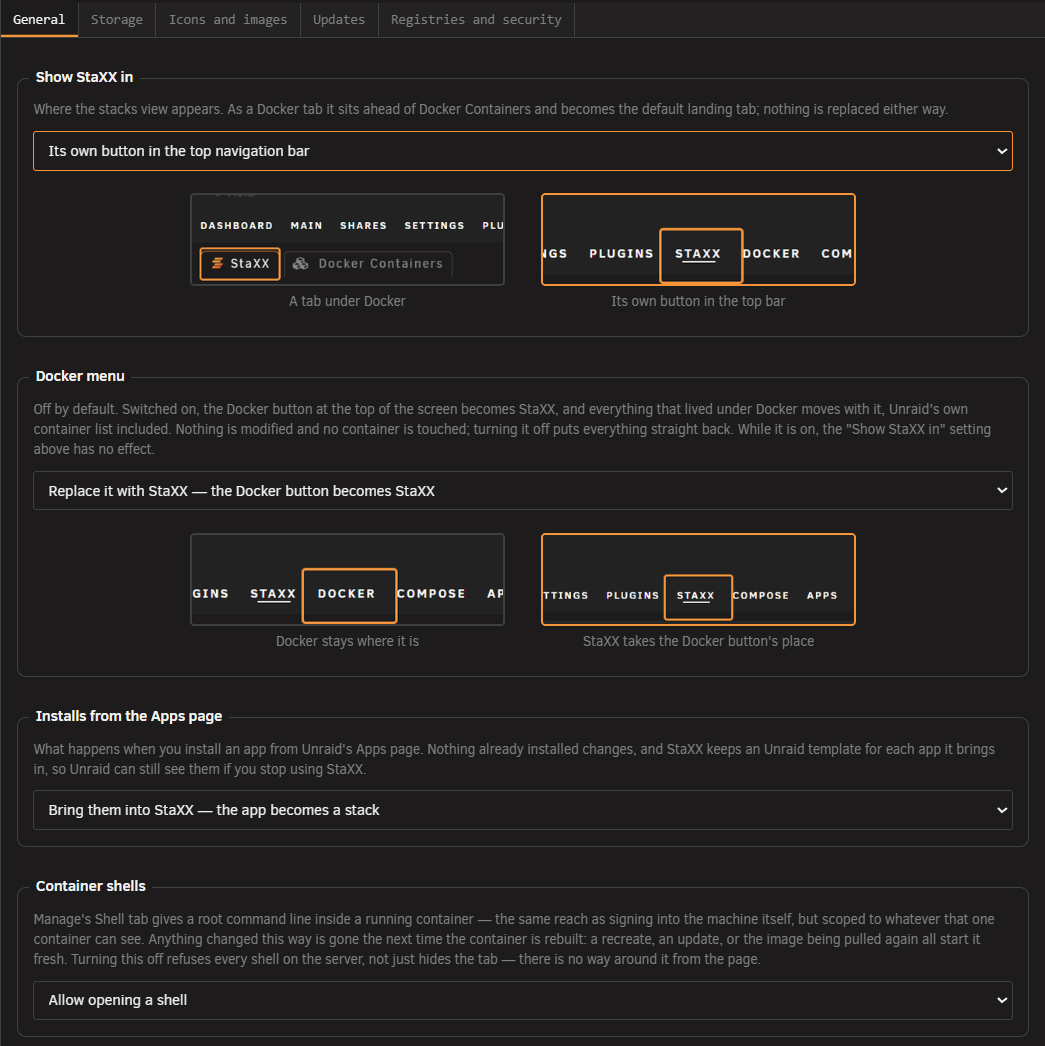
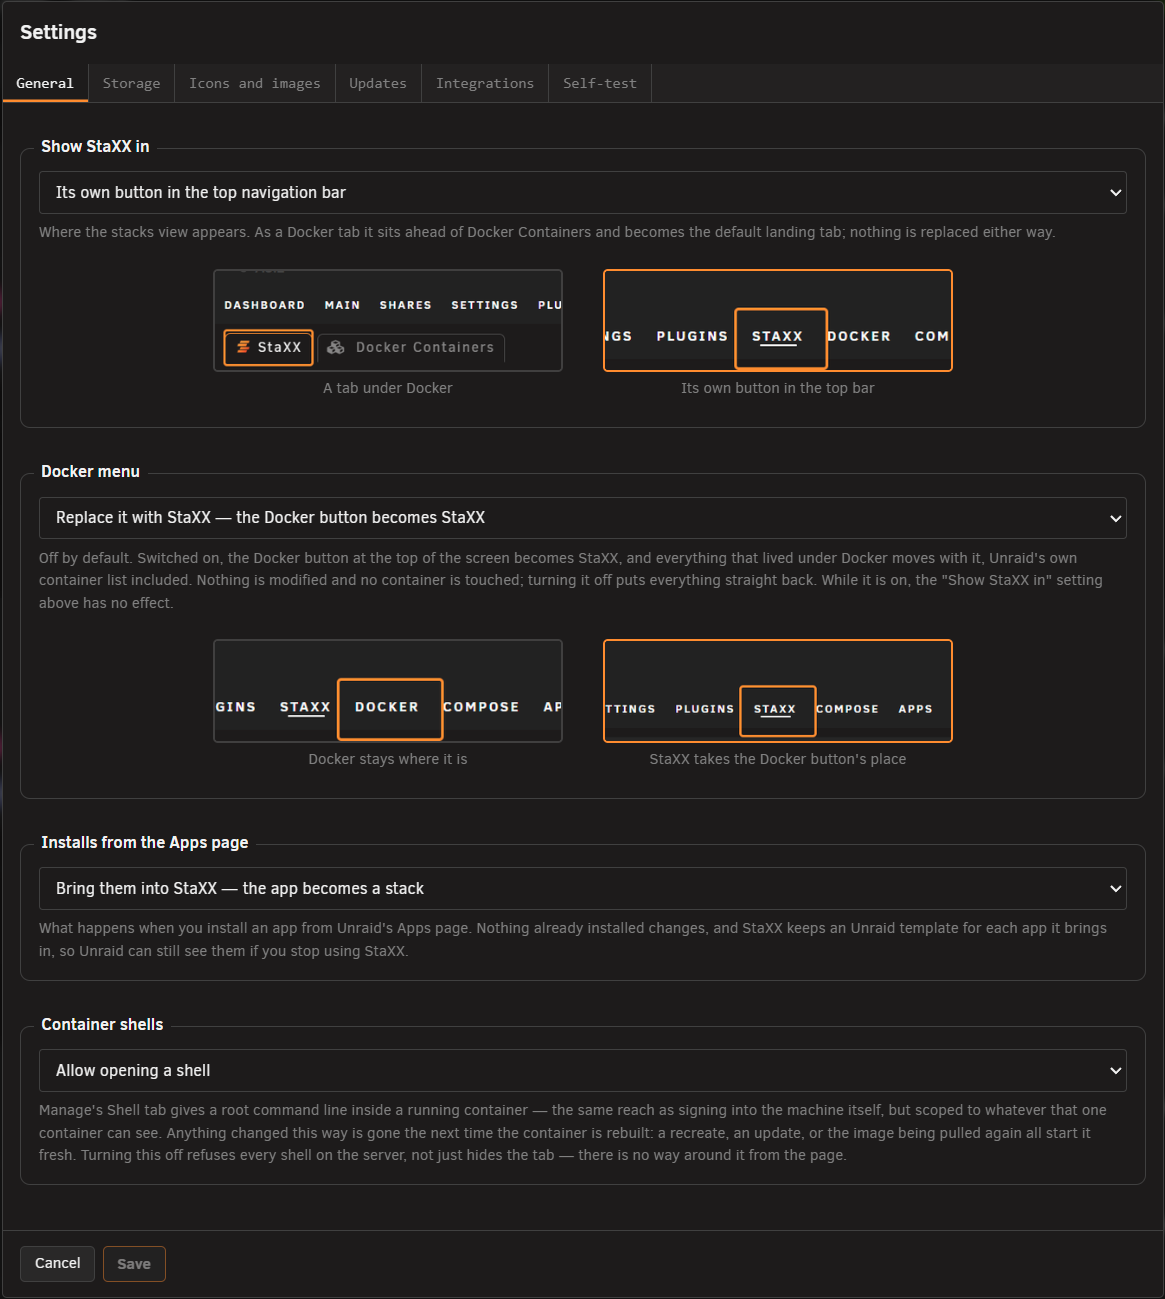
Guide: settings pictures re-shot, image scan and storage notice, Unraid page moved
The Settings page gains Scan stored images and The storage notice, with
pictures, and every settings-tab picture is re-shot for the new layout.
Removing a stack mentions saved earlier versions. The Unraid Settings ->
Utilities -> StaXX page's picture and table move to File locations and
the data store, under If you cannot reach StaXX. README settings table
updated.

Claude-Session: https://claude.ai/code/session_01XHPxR9EAziyYj4UczaFhek

diff --git a/docs/guide/settings.md b/docs/guide/settings.md
@@ -2,24 +2,10 @@
 
 <!-- index: 80 | every setting behind the cog, group by group, plus the self-test and the first-run screen. -->
 
-Press **Settings**, the cog above your stack list, to open this panel. Unraid's own Settings →
-Utilities → StaXX page keeps two of the settings as a way back.
+Press **Settings**, the cog above your stack list, to open this panel. If StaXX's own page will not
+open, see [If you cannot reach StaXX](where-things-live.md#if-you-cannot-reach-staxx).
 
-![The toolbar above the stack list with the Settings button outlined](../images/guide/settings-cog.png)
-
-## The page under Unraid's Settings
-
-![Unraid's own Settings → Utilities → StaXX page: a line saying the settings are in the app now with a link to open the panel, then two rows, Docker menu set to Replace it with StaXX and Data store holding the store path, with Apply and Done buttons](../images/guide/settings-unraid-page.png)
-
-Under Unraid's **Settings → Utilities** there is still a StaXX entry, and it is the way back if
-StaXX's own page will not open:
-
-| Setting | What it undoes |
-|---|---|
-| Docker menu | Set it to **Leave it alone** and Unraid's own Docker page returns, with StaXX as a tab under it. |
-| Data store | Point it at the right folder if the store has been moved or the path is wrong, and the stack list comes back. |
-
-Press **Apply** to save. Everything else lives in the panel.
+![The Settings button outlined in the middle of the toolbar above the stack list, with the search box and the other toolbar buttons either side, Unraid's own top bar above and the first folder row below](../images/guide/settings-cog.png)
 
 ## Using the panel
 
@@ -45,7 +31,7 @@ reloads for you and says so.
 
 ## Storage tab
 
-![The Storage tab in full: the Data store box holding the folder's path and its folder button, the Protect me from myself switch turned on with its one-line explanation, the three folders derived from the path and the Move the data store and Check these are in your backup links; then Copies on the flash drive with its dropdown, and beneath it the Keeping the copies current choice between On a schedule and Live; then the Archived stacks list of zips with dates and sizes; and the Unused images box with its Scan stored images button](../images/guide/settings-storage-tab.png)
+![The Storage tab in full: the Data store box with its folder path, the Protect me from myself switch and the three folders under it; Copies on the flash drive with its two dropdowns side by side; the Unused image management box in two columns, with the Scan stored images button beside Keep the images, and Warn when image storage is this full beside Or when clutter is this old; and the Archived stacks list of zips with dates and sizes](../images/guide/settings-storage-tab.png)
 
 | Setting | Choices | Default | What it does |
 |---|---|---|---|
@@ -53,8 +39,49 @@ reloads for you and says so.
 | Protect me from myself | On / Off | On | With this setting on, the folder picker will not let you choose a store location that could result in the loss of your data. With it off, the picker presents every storage location on your system, whether or not it could lose your files. Even with it off, two places are never allowed: anywhere that is wiped when the server restarts, and the top level of a whole share such as appdata, where every folder inside it would be mistaken for a stack. |
 | Copies on the flash drive | Keep a copy of every compose file there / Do not write copies | Keep a copy | With this on, every time you save, start or update a stack here a copy of its file is also written to the flash drive, which Unraid already backs up. If the data store were ever lost, StaXX offers to bring every stack back from these copies — see [if the data store is lost](recovery-and-redundancy.md). With it off, no copies are written. |
 | Keeping the copies current | On a schedule / Live | On a schedule | How a change made outside StaXX — the file edited by hand and the container recreated at a command line — still reaches the copy above. **On a schedule** compares every stack with its copy once an hour and rewrites the ones that differ; a change made this way can be up to an hour behind. **Live** keeps a small process running that refreshes a stack's copy the moment its container is recreated, however that was done, at the cost of one process that runs all the time; a daily sweep still runs as a backstop. Only means anything while the setting above is on. |
+| Scan stored images | — | — | Pressing **Scan stored images** shows a bar of **Docker's image storage**, split into **In use**, **Kept for rolling back**, **Clutter** and **Free**. Under the bar is the clutter, grouped by where it came from, with the space each image takes. Every image in the list starts ticked. Untick any you want to keep, then press the **Remove** button. The copies kept for rolling back sit under **Kept so you can roll back**; press it to open that list. If a container can no longer be read, its details appear at the top with a **Remove this broken container** button. It asks you to confirm, and leaves the container's data folder where it is. |
+| Keep the images | Yes / No — remember the version numbers only | Yes | With this on, earlier versions stay on the server, so rolling back is instant. With it off, only their version numbers are kept, and rolling back downloads that version again. |
+| Warn when image storage is this full | 50 to 99% | 85% | When there is clutter to clear and Docker's image storage is this full, the storage notice appears. |
+| Or when clutter is this old | 1 to 365 days | 30 days | When any clutter has gone unused for this many days, the storage notice appears, however much space is free. |
 | Archived stacks | — | — | Shows the zip of every stack you have removed, with its date and size. Nothing here can be changed. See [removing a stack](removing-a-stack.md). |
-| Unused images | — | — | Pressing **Scan stored images** shows a bar of **Docker's image storage**, split into **In use**, **Kept for rolling back**, **Clutter** and **Free**. Under the bar is the clutter, grouped by where it came from, with the space each image takes. Every image in the list starts ticked. Untick any you want to keep, then press the **Remove** button. The copies kept for rolling back sit under **Kept so you can roll back**; press it to open that list. If a container can no longer be read, its details appear at the top with a **Remove this broken container** button. It asks you to confirm, and leaves the container's data folder where it is. |
+
+### Scan stored images
+
+Press **Scan stored images** to open the window.
+
+![The Scan stored images window: a notice about a container Docker cannot read, with its details and a Remove this broken container button; the Docker's image storage bar and its key; the clutter grouped under Left behind by updates, Left behind by rebuilds, Older versions and Not used by any stack, every row ticked with its size; Kept so you can roll back folded shut at the bottom; and the Remove 8 images button](../images/guide/settings-scan-images.png)
+
+The bar at the top shows how Docker's image storage is used. The line under it says how much of it
+is clutter.
+
+![The storage bar: In use in solid grey, Kept for rolling back in blue stripes, Clutter in dotted amber and Free as a dashed outline, with a key giving each size, and the line 8 images, 1.8 GB, are clutter and can be removed](../images/guide/settings-scan-images-bar.png)
+
+Untick any image you want to keep, then press the **Remove** button at the foot of the window. Press
+**Kept so you can roll back** to see the copies kept for rolling back.
+
+If a container can no longer be read, its details appear at the top of the window: when it was set
+up, whether it ever ran, its image, its data folder, its network address and its limits. Press
+**Remove this broken container** to remove it.
+
+![The notice for a container Docker cannot read, with Set up, Ever run, Image, Database, Data folder, Network, Unraid template and Limits rows, and the red Remove this broken container button](../images/guide/settings-scan-images-broken.png)
+
+Confirm to remove it. Its data folder and its Unraid template stay where they are.
+
+![The confirmation: Remove the broken container "old-database"?, saying its data folder and its Unraid template are kept, with Cancel and a red Remove container button](../images/guide/settings-scan-images-confirm.png)
+
+### The storage notice
+
+When there is clutter to clear and one of the two storage settings above is reached, a notice
+appears at the top of the stack list.
+
+![The stack list with the storage notice in the line at the top left: Docker's image storage has 1.8 GB of clutter. It is 87% full.](../images/guide/settings-storage-notice.png)
+
+![A close-up of the notice line at the top of the stack list](../images/guide/settings-storage-notice-bar.png)
+
+Press the notice to open it, then press **Review stored images** to open **Scan stored images**. If
+you dismiss it, it stays hidden until the clutter changes.
+
+![The Notifications panel with the storage notice, how long ago it arrived, a Review stored images button and the dismiss cross](../images/guide/settings-storage-notice-panel.png)
 
 Two links sit under the Data store box:
 
@@ -81,7 +108,7 @@ Two links sit under the Data store box:
 
 This tab is explained fully in [checking for updates](updates.md).
 
-![The top of the Updates tab: Check for image updates with How often and Time of day, the Updates row ticked between Manual and Automatic, the When to install box greyed out because Updates is set to Manual, and three Notify me switches: New image, Image installed and Installation failed. The tab continues below with how many previous image releases to keep, removing old images automatically, and the update-check activity table](../images/guide/settings-updates-tab.png)
+![The Updates tab in full: Check for image updates with How often and Time of day, the Updates default with Manual and Automatic, When to install, Notifications with its three ticks, Previous image releases to keep set to 2, and the Update-check activity table](../images/guide/settings-updates-tab.png)
 
 | Setting | Choices | Default | What it does |
 |---|---|---|---|
@@ -93,7 +120,6 @@ This tab is explained fully in [checking for updates](updates.md).
 | Quiet time starts / ends | A time, in half-hour steps | 03:00 / 05:00 | The hours during which updates may install themselves. The window can run past midnight into the next day. |
 | Notify me | New image / Image installed / Installation failed, each on or off | Installation failed is on; the other two are off | Three separate switches for when StaXX sends you an Unraid notification: New image when a check finds something waiting, Image installed once an update has gone in, and Installation failed when one hasn't. Any mix of the three can be on at once. A container can take itself out of these messages in its own settings — see [choosing how a container updates](update-policy.md). |
 | Previous image releases to keep | 0 to 5 | 2 | How many older versions of each image stay on disk after an update, so you can put one back. See [version history](recovery-and-redundancy.md). |
-| Remove old images automatically | No / Yes, once a week | No | With this on, once a week StaXX removes downloaded images that nothing is running and that are no longer kept for putting back. It never removes anything else. With it off, old images stay until you remove them yourself. |
 | Update-check activity | — | — | Shows, for each place StaXX asks about updates, how many times it has asked this hour and today, how many of those counted against that place's limit. Where there is something to say about a place — that it sets no limit of its own, or that it has stopped answering — the row carries an asterisk and the note appears once underneath the table. Look here when a row keeps saying `could not check`. See [checking for updates](updates.md#docker-hubs-limit). |
 
 ## Integrations tab

diff --git a/docs/guide/removing-a-stack.md b/docs/guide/removing-a-stack.md
@@ -21,7 +21,7 @@ separator.
 
 ## Step 2 · The confirmation dialog
 
-![The Remove dialog: containers are stopped and removed, nothing is deleted because the folder is zipped into the archives folder, appdata is untouched, and a list of what else goes into the zip, with Cancel and Remove and archive buttons](../images/guide/removing-a-stack-confirm.png)
+![The Remove dialog for a stack: its containers are stopped and removed, nothing in the folder is deleted because it is zipped into the archives folder, appdata is untouched, its saved earlier versions (3 images, 1.4 GB) are removed too, the extra files going into the zip, and the folders and volume it uses, which stay as they are](../images/guide/removing-a-stack-confirm.png)
 
 1. Read what the dialog titled **Remove "\<name>"?** lists.
 2. Press **Remove and archive**.
@@ -30,8 +30,10 @@ The dialog lists, in order:
 
 - Its containers are stopped and removed.
 - The whole folder is zipped up and kept in the archive folder, named after the stack and the time
-  it was archived. Nothing is deleted.
+  it was archived. Nothing in the folder is deleted.
 - Appdata is not touched.
+- If the stack kept earlier versions of its images for rolling back, how many and how much space
+  they take. They are removed too, unless another stack still uses them.
 - Anything else going into the zip, besides the compose file itself — or, if the folder holds
   nothing more, a line saying so.
 - Every folder and named volume the compose file uses: folders by their path on your server, named

diff --git a/docs/guide/where-things-live.md b/docs/guide/where-things-live.md
@@ -11,7 +11,16 @@ live on the flash drive instead.
    the only route that keeps every other setting in step. See [Settings](settings.md).
 2. **Unraid's own settings page for StaXX**, under Settings → Utilities → StaXX. It writes straight
    to the flash drive, and works even when StaXX's own page cannot be reached, or while the array is
-   still starting. It only offers the Docker-menu choices and the data store's location.
+   still starting.
+
+   ![Unraid's own Settings → Utilities → StaXX page: a line saying the settings are in the app now with a link to open the panel, then two rows, Docker menu set to Replace it with StaXX and Data store holding the store path, with Apply and Done buttons](../images/guide/settings-unraid-page.png)
+
+   | Setting | What it undoes |
+   |---|---|
+   | **Docker menu** | Set it to **Leave it alone** and Unraid's own Docker page returns, with StaXX as a tab under it. |
+   | **Data store** | Point it at the right folder if the store has been moved or the path is wrong, and the stack list comes back. |
+
+   Press **Apply** to save.
 3. **Editing the file by hand**, the last resort. Open the settings file on the flash drive (over the
    network share Unraid publishes, or by putting the drive in another computer) and change the line
    yourself.

diff --git a/README.md b/README.md
@@ -184,7 +184,8 @@ before the array starts — see [where StaXX keeps its things](docs/guide/where-
 | `UPDATE_WINDOW` + `_START` / `_END` | `true`, `03:00`–`05:00` | Only install automatically inside a quiet window. |
 | `UPDATE_NOTIFY` | `off` | Unraid notifications: `found`, or `applied` as well. |
 | `UPDATE_RETAIN` | `2` | How many previous builds of each image to keep for a rollback. |
-| `UPDATE_CLEANUP` | `off` | `weekly` removes images nothing uses and no history needs. |
+| `UPDATE_KEEP_IMAGES` | `yes` | `no` still remembers the version numbers but no longer keeps the image files on disk; a rollback downloads that version again. |
+| `STORAGE_ALERT_PERCENT` / `STORAGE_ALERT_DAYS` | `85` / `30` | When to show a notice pointing at Scan stored images: storage this full, or clutter sitting unused this many days. Nothing is ever removed on a schedule. |
 | `HUB_USER` / `HUB_TOKEN` | *(blank)* | A Docker Hub read-only token. Without one, checks are limited to roughly ten images an hour. |
 
 `CRYPT_MODE` decides whether the password-hashing helper stays running (`always`) or starts only
